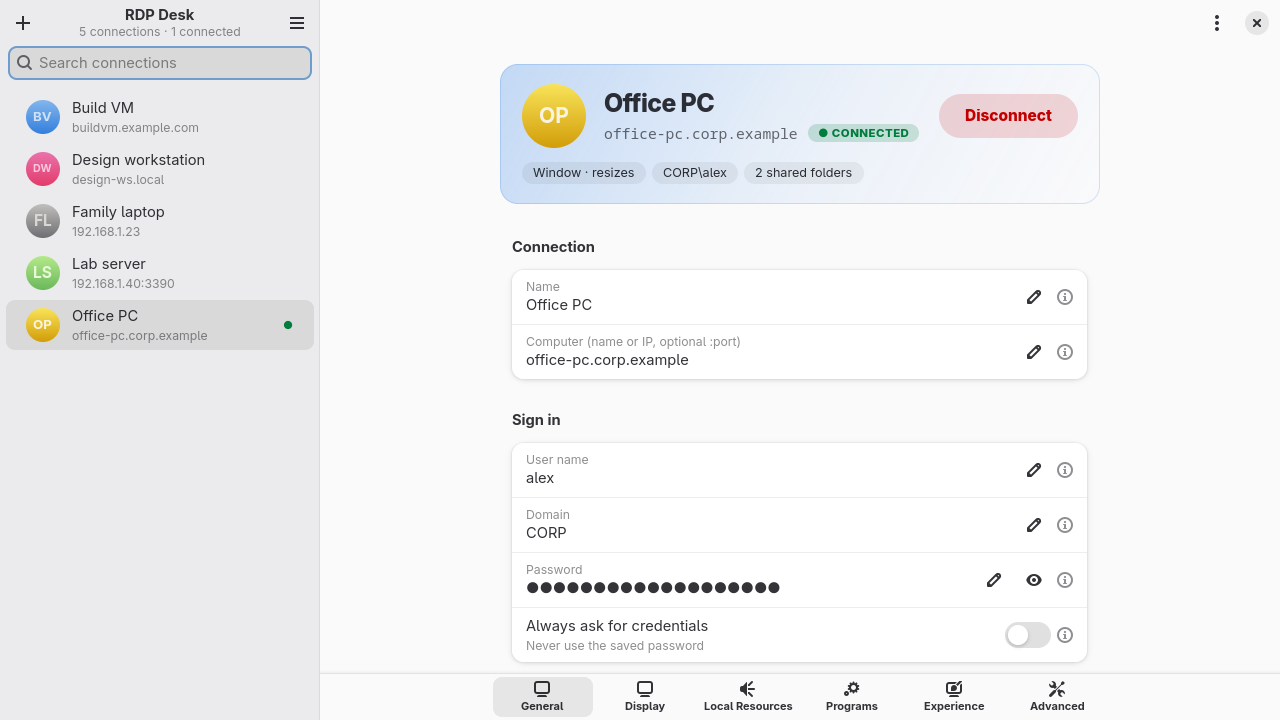
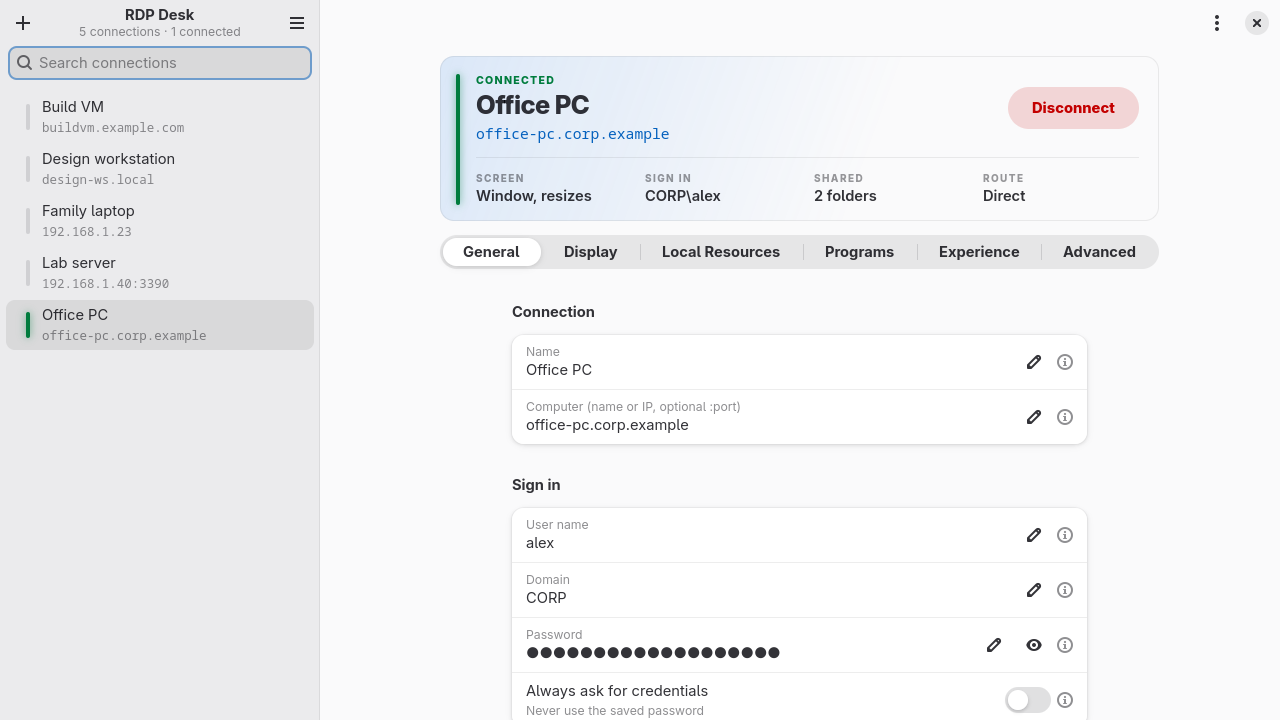
Redesign: status lights, header card with a spec strip, inline tabs
- List rows: a slim status light (green while connected) and the
  address in monospace, instead of initials badges.
- Header card: status line, name, address in the accent colour, big
  Connect button, and a Screen / Sign in / Shared / Route strip.
- Tabs: a rounded segmented control under the card (icons only below
  1100sp), no longer squeezed into the title bar or a bottom bar.
- Menus: sections with shortcuts; the More menu has Duplicate, Export
  and Delete as an icon row, plus Copy the address.

diff --git a/rdpdesk.py b/rdpdesk.py
@@ -421,22 +421,40 @@ def help_icon(text):
 
 
 CSS = """
+/* Theme colour names only, so it follows light/dark and any accent. */
+.led { min-width: 4px; min-height: 26px; border-radius: 2px; background: alpha(@window_fg_color, 0.14); }
+.led.online { background: @success_color; box-shadow: 0 0 8px alpha(@success_color, 0.6); }
+.led.warning { background: @warning_color; }
+.hero .led { min-height: 0; }
+.conn-row .subtitle { font-family: monospace; font-size: 0.85em; }
 .hero {
-  padding: 20px 22px;
-  border-radius: 18px;
-  background-image: linear-gradient(120deg, alpha(@accent_bg_color, 0.28), alpha(@accent_bg_color, 0.07) 55%, alpha(@accent_bg_color, 0.0));
-  box-shadow: inset 0 0 0 1px alpha(@accent_bg_color, 0.22);
+  padding: 18px 20px 16px 16px;
+  border-radius: 14px;
+  background-image: linear-gradient(110deg, alpha(@accent_bg_color, 0.16), alpha(@accent_bg_color, 0.0) 60%);
+  box-shadow: inset 0 0 0 1px alpha(@window_fg_color, 0.09);
 }
-.hero-name { font-size: 1.7em; font-weight: 800; letter-spacing: -0.02em; }
-.hero-host { font-family: monospace; opacity: 0.72; }
-.status { border-radius: 999px; padding: 2px 10px; font-size: 0.78em; font-weight: 800;
-          letter-spacing: 0.04em; background: alpha(@window_fg_color, 0.08); }
-.status.online { background: alpha(@success_color, 0.18); color: @success_color; }
-.status.warning { background: alpha(@warning_color, 0.18); color: @warning_color; }
-.chip { border-radius: 999px; padding: 3px 11px; font-size: 0.86em; background: alpha(@window_fg_color, 0.07); }
-.big-connect { padding: 10px 26px; font-weight: 800; font-size: 1.05em; }
-.online-dot { color: @success_color; font-size: 0.75em; }
+.hero-name { font-size: 1.75em; font-weight: 800; letter-spacing: -0.02em; }
+.hero-host { font-family: monospace; color: @accent_color; }
+.status { font-size: 0.72em; font-weight: 800; letter-spacing: 0.12em; opacity: 0.6; }
+.status.online { color: @success_color; opacity: 1; }
+.status.warning { color: @warning_color; opacity: 1; }
+.rule { min-height: 1px; background: alpha(@window_fg_color, 0.09); }
+.spec-key { font-size: 0.68em; font-weight: 800; letter-spacing: 0.14em; opacity: 0.5; }
+.spec-value { font-weight: 600; }
+.big-connect { padding: 9px 24px; font-weight: 800; }
+.tabs { margin: 14px 0 2px 0; }
 """
+
+
+def menu_sections(*sections):
+    """A Gio.Menu with one section per list of (label, action); GTK shows the shortcuts itself."""
+    menu = Gio.Menu()
+    for items in sections:
+        part = Gio.Menu()
+        for label, action in items:
+            part.append(label, action)
+        menu.append_section(None, part)
+    return menu
 
 
 def safe_name(text):
@@ -471,7 +489,8 @@ class Window(Adw.ApplicationWindow):
 
         for name, fn in [("new", self.new), ("import", self.pick_import), ("folder", self.open_folder),
                          ("about", self.about), ("connect", self.toggle_session), ("duplicate", self.duplicate),
-                         ("export", self.export), ("delete", self.delete), ("search", self.focus_search)]:
+                         ("export", self.export), ("delete", self.delete), ("search", self.focus_search),
+                         ("copy-address", self.copy_address)]:
             action = Gio.SimpleAction.new(name, None)
             action.connect("activate", lambda *_, f=fn: f())
             self.add_action(action)
@@ -483,14 +502,12 @@ class Window(Adw.ApplicationWindow):
         self.toasts.set_child(self.split)
         self.set_content(self.toasts)
 
-        narrow = Adw.Breakpoint.new(Adw.BreakpointCondition.parse("max-width: 1400sp"))
-        narrow.add_setter(self.switcher, "visible", False)
-        narrow.add_setter(self.switcher_bar, "reveal", True)
+        narrow = Adw.Breakpoint.new(Adw.BreakpointCondition.parse("max-width: 1100sp"))
+        narrow.add_setter(self.switcher, "display-mode", Adw.InlineViewSwitcherDisplayMode.ICONS)
         self.add_breakpoint(narrow)
         phone = Adw.Breakpoint.new(Adw.BreakpointCondition.parse("max-width: 640sp"))
         phone.add_setter(self.split, "collapsed", True)
-        phone.add_setter(self.switcher, "visible", False)
-        phone.add_setter(self.switcher_bar, "reveal", True)
+        phone.add_setter(self.switcher, "display-mode", Adw.InlineViewSwitcherDisplayMode.ICONS)
         self.add_breakpoint(phone)
 
         drop = Gtk.DropTarget.new(Gdk.FileList, Gdk.DragAction.COPY)
@@ -506,16 +523,17 @@ class Window(Adw.ApplicationWindow):
         header = Adw.HeaderBar(title_widget=self.side_title)
         header.pack_start(Gtk.Button(icon_name="list-add-symbolic", tooltip_text="New connection (Ctrl+N)",
                                      action_name="win.new"))
-        menu = Gio.Menu()
-        menu.append("Import .rdp files…", "win.import")
-        menu.append("Open the connections folder", "win.folder")
-        menu.append("About RDP Desk", "win.about")
-        header.pack_end(Gtk.MenuButton(icon_name="open-menu-symbolic", menu_model=menu, tooltip_text="Menu"))
+        menu = menu_sections([("New connection", "win.new"), ("Import .rdp files…", "win.import")],
+                             [("Open the connections folder", "win.folder")],
+                             [("About RDP Desk", "win.about")])
+        self.menu_button = Gtk.MenuButton(icon_name="open-menu-symbolic", menu_model=menu, tooltip_text="Menu")
+        header.pack_end(self.menu_button)
 
         self.search = Gtk.SearchEntry(placeholder_text="Search connections", margin_start=8, margin_end=8,
                                       margin_bottom=6)
         self.search.connect("search-changed", lambda *_: self.list.invalidate_filter())
         self.list = Gtk.ListBox(css_classes=["navigation-sidebar"], activate_on_single_click=False)
+        self.list.set_placeholder(Gtk.Label(label="Nothing matches", css_classes=["dim-label"], margin_top=24))
         self.list.set_sort_func(lambda a, b: (a.name.casefold() > b.name.casefold()) - (a.name.casefold() < b.name.casefold()))
         self.list.set_filter_func(lambda row: self.search.get_text().casefold() in (row.name + " " + row.get_subtitle()).casefold())
         self.list.connect("row-selected", self.on_select)
@@ -536,21 +554,34 @@ class Window(Adw.ApplicationWindow):
                 page.add(self.build_folders() if group == "FOLDERS" else self.build_group(*group))
             self.tabs.add_titled_with_icon(page, tab_id, title, icon)
 
-        self.switcher = Adw.ViewSwitcher(stack=self.tabs, policy=Adw.ViewSwitcherPolicy.WIDE)
-        self.switcher_bar = Adw.ViewSwitcherBar(stack=self.tabs)
-        more = Gio.Menu()
-        more.append("Duplicate", "win.duplicate")
-        more.append("Export…", "win.export")
-        more.append("Delete", "win.delete")
-        header = Adw.HeaderBar(title_widget=self.switcher)
-        header.pack_end(Gtk.MenuButton(icon_name="view-more-symbolic", menu_model=more, tooltip_text="More"))
+        # Tabs as one rounded segmented control under the banner, not in the title bar (no room there).
+        self.switcher = Adw.InlineViewSwitcher(stack=self.tabs, css_classes=["round", "tabs"], homogeneous=False,
+                                               display_mode=Adw.InlineViewSwitcherDisplayMode.LABELS)
+        tools = Gio.Menu()
+        for label, action, icon in [("Duplicate", "win.duplicate", "edit-copy-symbolic"),
+                                    ("Export…", "win.export", "document-save-as-symbolic"),
+                                    ("Delete", "win.delete", "user-trash-symbolic")]:
+            item = Gio.MenuItem.new(label, action)
+            item.set_attribute_value("verb-icon", GLib.Variant.new_string(icon))
+            tools.append_item(item)
+        row = Gio.MenuItem.new_section(None, tools)
+        row.set_attribute_value("display-hint", GLib.Variant.new_string("horizontal-buttons"))
+        more = menu_sections([("Copy the address", "win.copy-address")])
+        more.prepend_item(row)
+        header = Adw.HeaderBar(show_title=False)
+        self.more_button = Gtk.MenuButton(icon_name="view-more-symbolic", menu_model=more, tooltip_text="More")
+        header.pack_end(self.more_button)
+        top = Adw.Clamp(maximum_size=720, tightening_threshold=600, margin_top=10, margin_start=12, margin_end=12)
+        top_box = Gtk.Box(orientation=Gtk.Orientation.VERTICAL)
+        top_box.append(self.build_hero())
+        top_box.append(self.switcher)
+        top.set_child(top_box)
         body = Gtk.Box(orientation=Gtk.Orientation.VERTICAL)
-        body.append(self.build_hero())
+        body.append(top)
         self.tabs.set_vexpand(True)
         body.append(self.tabs)
         edit = Adw.ToolbarView(content=body)
         edit.add_top_bar(header)
-        edit.add_bottom_bar(self.switcher_bar)
 
         new = Gtk.Button(label="New connection", action_name="win.new", halign=Gtk.Align.CENTER,
                          css_classes=["pill", "suggested-action"])
@@ -571,28 +602,33 @@ class Window(Adw.ApplicationWindow):
         return self.pages
 
     def build_hero(self):
-        """The banner over the tabs: who this is, where it goes, how it is set up, and the big button."""
-        self.hero_avatar = Adw.Avatar(size=64, show_initials=True, valign=Gtk.Align.CENTER)
+        """The banner over the tabs: a status light, the name and address, the big button, then a spec strip."""
+        self.hero_led = Gtk.Box(css_classes=["led"])
         self.hero_name = Gtk.Label(xalign=0, ellipsize=Pango.EllipsizeMode.END, css_classes=["hero-name"])
         self.hero_host = Gtk.Label(xalign=0, ellipsize=Pango.EllipsizeMode.END, selectable=True, css_classes=["hero-host"])
-        self.hero_status = Gtk.Label(css_classes=["status"], valign=Gtk.Align.CENTER)
-        line = Gtk.Box(spacing=10)
-        line.append(self.hero_host)
-        line.append(self.hero_status)
-        self.hero_chips = Gtk.Box(spacing=6)
-        text = Gtk.Box(orientation=Gtk.Orientation.VERTICAL, spacing=4, hexpand=True, valign=Gtk.Align.CENTER)
-        for w in (self.hero_name, line):
+        self.hero_status = Gtk.Label(xalign=0, css_classes=["status"])
+        text = Gtk.Box(orientation=Gtk.Orientation.VERTICAL, spacing=2, hexpand=True, valign=Gtk.Align.CENTER)
+        for w in (self.hero_status, self.hero_name, self.hero_host):
             text.append(w)
         self.connect_button = Gtk.Button(label="Connect", tooltip_text="Connect (Ctrl+Enter, or double-click it in the list)",
                                          action_name="win.connect", valign=Gtk.Align.CENTER)
-        top = Gtk.Box(spacing=18)
-        for w in (self.hero_avatar, text, self.connect_button):
+        top = Gtk.Box(spacing=16)
+        for w in (text, self.connect_button):
             top.append(w)
-        box = Gtk.Box(orientation=Gtk.Orientation.VERTICAL, spacing=14, css_classes=["hero"])
-        box.append(top)
-        box.append(self.hero_chips)
-        return Adw.Clamp(maximum_size=600, tightening_threshold=560, child=box,
-                         margin_top=18, margin_bottom=2, margin_start=12, margin_end=12)
+        self.specs = Gtk.Grid(column_homogeneous=True, column_spacing=12, row_spacing=2)
+        self.spec_values = []
+        for col, key in enumerate(("SCREEN", "SIGN IN", "SHARED", "ROUTE")):
+            value = Gtk.Label(xalign=0, ellipsize=Pango.EllipsizeMode.END, css_classes=["spec-value"])
+            self.specs.attach(Gtk.Label(label=key, xalign=0, css_classes=["spec-key"]), col, 0, 1, 1)
+            self.specs.attach(value, col, 1, 1, 1)
+            self.spec_values.append(value)
+        inner = Gtk.Box(orientation=Gtk.Orientation.VERTICAL, spacing=14, hexpand=True)
+        for w in (top, Gtk.Box(css_classes=["rule"]), self.specs):
+            inner.append(w)
+        box = Gtk.Box(spacing=16, css_classes=["hero"])
+        box.append(self.hero_led)
+        box.append(inner)
+        return box
 
     def update_hero(self):
         if not self.rdp:
@@ -600,49 +636,46 @@ class Window(Adw.ApplicationWindow):
         rdp, name = self.rdp, self.rdp.path.stem
         running = str(rdp.path) in self.sessions
         host = rdp.get("full address", "")
-        self.hero_avatar.set_text(name)
         self.hero_name.set_label(name)
         self.hero_host.set_label(host or "no computer set")
-        status, kind = ("● CONNECTED", "online") if running else ("READY", "") if host else ("NEEDS A COMPUTER", "warning")
-        self.hero_status.set_label(status)
-        self.hero_status.set_css_classes(["status"] + ([kind] if kind else []))
+        status, kind = ("CONNECTED", "online") if running else ("READY", "") if host else ("NEEDS A COMPUTER", "warning")
+        extras = self.extras(rdp)
+        self.hero_status.set_label("  ·  ".join([status] + [e.upper() for e in extras]))
+        for w, base in ((self.hero_status, "status"), (self.hero_led, "led")):
+            w.set_css_classes([base] + ([kind] if kind else []))
         self.connect_button.set_label("Disconnect" if running else "Connect")
         self.connect_button.set_css_classes(["pill", "big-connect", "destructive-action" if running else "suggested-action"])
-        while child := self.hero_chips.get_first_child():
-            self.hero_chips.remove(child)
-        chips = self.chips(rdp)
-        shown = chips if len(chips) <= 4 else chips[:3] + [f"+{len(chips) - 3}"]
-        for chip in shown:
-            label = Gtk.Label(label=chip, css_classes=["chip"])
-            if chip.startswith("+"):
-                label.set_tooltip_text(" · ".join(chips[3:]))
-            self.hero_chips.append(label)
+        for label, value in zip(self.spec_values, self.specs_of(rdp)):
+            label.set_label(value)
+            label.set_tooltip_text(value)
 
     @staticmethod
-    def chips(rdp):
-        """A few words on how this connection is set up."""
+    def specs_of(rdp):
+        """Screen, sign-in, shared folders and route, in a few words each."""
         g = rdp.get
-        out = ["Full screen" if g("screen mode id") == "2" else
-               "Window · resizes" if g("dynamic resolution") == "1" else f"Window · {g('desktopwidth')}×{g('desktopheight')}"]
+        screen = ("Full screen" if g("screen mode id") == "2" else
+                  "Window, resizes" if g("dynamic resolution") == "1" else f"{g('desktopwidth')} × {g('desktopheight')}")
         if g("use multimon") == "1":
-            out.append("All monitors")
+            screen = "All monitors"
         user = g("username", "")
-        if user:
-            out.append(f"{g('domain')}\\{user}" if g("domain") else user)
+        sign_in = (f"{g('domain')}\\{user}" if g("domain") else user) if user else "Asks"
         n = len(rdp.folders())
-        if n:
-            out.append(f"{n} shared folder{'s' if n > 1 else ''}")
-        if g("audiocapturemode") == "1":
-            out.append("Microphone")
-        if g("remoteapplicationmode") == "1":
-            out.append("RemoteApp")
-        if g("gatewayusagemethod", "0") != "0" and g("gatewayhostname"):
-            out.append("Via RD Gateway")
-        if g("administrative session") == "1":
-            out.append("Admin session")
-        if g(GFX_KEY) == "0":
-            out.append("No graphics acceleration")
-        return out
+        shared = f"{n} folder{'s' if n > 1 else ''}" if n else "Nothing"
+        route = "RD Gateway" if g("gatewayusagemethod", "0") != "0" and g("gatewayhostname") else "Direct"
+        return screen, sign_in, shared, route
+
+    @staticmethod
+    def extras(rdp):
+        g = rdp.get
+        return [label for on, label in [(g("remoteapplicationmode") == "1", "RemoteApp"),
+                                        (g("administrative session") == "1", "Admin"),
+                                        (g("audiocapturemode") == "1", "Mic"),
+                                        (g(GFX_KEY) == "0", "No GPU accel")] if on]
+
+    def copy_address(self):
+        if self.rdp and (host := self.rdp.get("full address", "")):
+            self.get_clipboard().set(host)
+            self.toast(f"Copied {host}")
 
     def build_group(self, title, description, items):
         group = Adw.PreferencesGroup(title=title, description=description)
@@ -707,10 +740,9 @@ class Window(Adw.ApplicationWindow):
                 host = RdpFile(path).get("full address", "")
             except OSError:
                 continue
-            row = Adw.ActionRow(title=GLib.markup_escape_text(path.stem))
-            row.add_prefix(Adw.Avatar(size=34, text=path.stem, show_initials=True))
-            row.dot = Gtk.Label(label="●", css_classes=["online-dot"], visible=False, tooltip_text="Connected")
-            row.add_suffix(row.dot)
+            row = Adw.ActionRow(title=GLib.markup_escape_text(path.stem), css_classes=["conn-row"])
+            row.led = Gtk.Box(css_classes=["led"], valign=Gtk.Align.CENTER)
+            row.add_prefix(row.led)
             row.name, row.path, row.host = path.stem, path, host
             self.list.append(row)
             if str(path) == select:
@@ -727,7 +759,7 @@ class Window(Adw.ApplicationWindow):
         i = 0
         while row := self.list.get_row_at_index(i):
             row.set_subtitle(GLib.markup_escape_text(row.host or "No computer set"))
-            row.dot.set_visible(str(row.path) in self.sessions)
+            row.led.set_css_classes(["led", "online"] if str(row.path) in self.sessions else ["led"])
             i += 1
         live = len(self.sessions)
         self.side_title.set_subtitle(f"{i} connection{'' if i == 1 else 's'}" + (f" · {live} connected" if live else ""))

diff --git a/README.md b/README.md
@@ -7,8 +7,8 @@ A small GTK 4 / libadwaita app with the settings the Windows Remote Desktop clie
 
 ## Features
 
-- **Your connections in one list.** Each has its own coloured initials badge and a green dot while connected. Search them, and double-click one to connect. Each session opens in its own window, so several can run at once.
-- **A banner for every connection.** It shows the name, address and a live status (*Ready*, *Connected*, *Needs a computer*), with chips that sum up how it's set up (*Full screen*, *CORP\alex*, *2 shared folders*, *Via RD Gateway*…), plus one big Connect button.
+- **Your connections in one list**, each with a status light that glows green while connected. Search them, and double-click one to connect. Each session opens in its own window, so several can run at once.
+- **A header card for every connection**: status (*Ready*, *Connected*, *Needs a computer*), name, address and one big Connect button, over a strip that sums up the setup at a glance: *Screen*, *Sign in*, *Shared* and *Route*.
 - **Every setting the Windows client has: 54 in all, in its six tabs.** General, Display, Local Resources, Programs, Experience and Advanced. That includes multiple monitors, remote scaling, audio and microphone, clipboard, printers, drives, USB devices, cameras, security keys, RemoteApp, the performance options, Network Level Authentication and RD Gateway.
 - **A help icon on every setting.** Hover the ⓘ to see what the setting does and when you would change it.
 - **Shared folders.** Pick folders such as Downloads or a NAS share. They appear on the remote computer as drives.
@@ -61,11 +61,11 @@ It needs GTK ≥ 4.12, libadwaita ≥ 1.5, Python ≥ 3.10 and FreeRDP 3.
 
 ## Using it
 
-- **New connection** (＋ or Ctrl+N): type the computer's name or IP address on the General tab and press the big **Connect** button in the banner. That's all. Everything else has sensible defaults.
+- **New connection** (＋ or Ctrl+N): type the computer's name or IP address on the General tab and press the big **Connect** button in the header card. That's all. Everything else has sensible defaults.
 - **Import** (☰ › Import, Ctrl+O, or drag files onto the window) copies `.rdp` files into your list.
 - **Connect**: the Connect button, a double-click in the list, or Ctrl+Enter. Press it again (**Disconnect**) to end the session.
 - **Passwords**: type it in the Password row and press Enter to save it in the keyring. Leave it empty and you're asked when connecting, with an option to remember it.
-- **More** (⋮): Duplicate, Export… and Delete.
+- **More** (⋮): Duplicate, Export and Delete as icon buttons, and Copy the address.
 - **Search**: Ctrl+F.
 
 Changes are saved as you make them. Connections live in `~/.local/share/rdpdesk/` as ordinary `.rdp` files.
